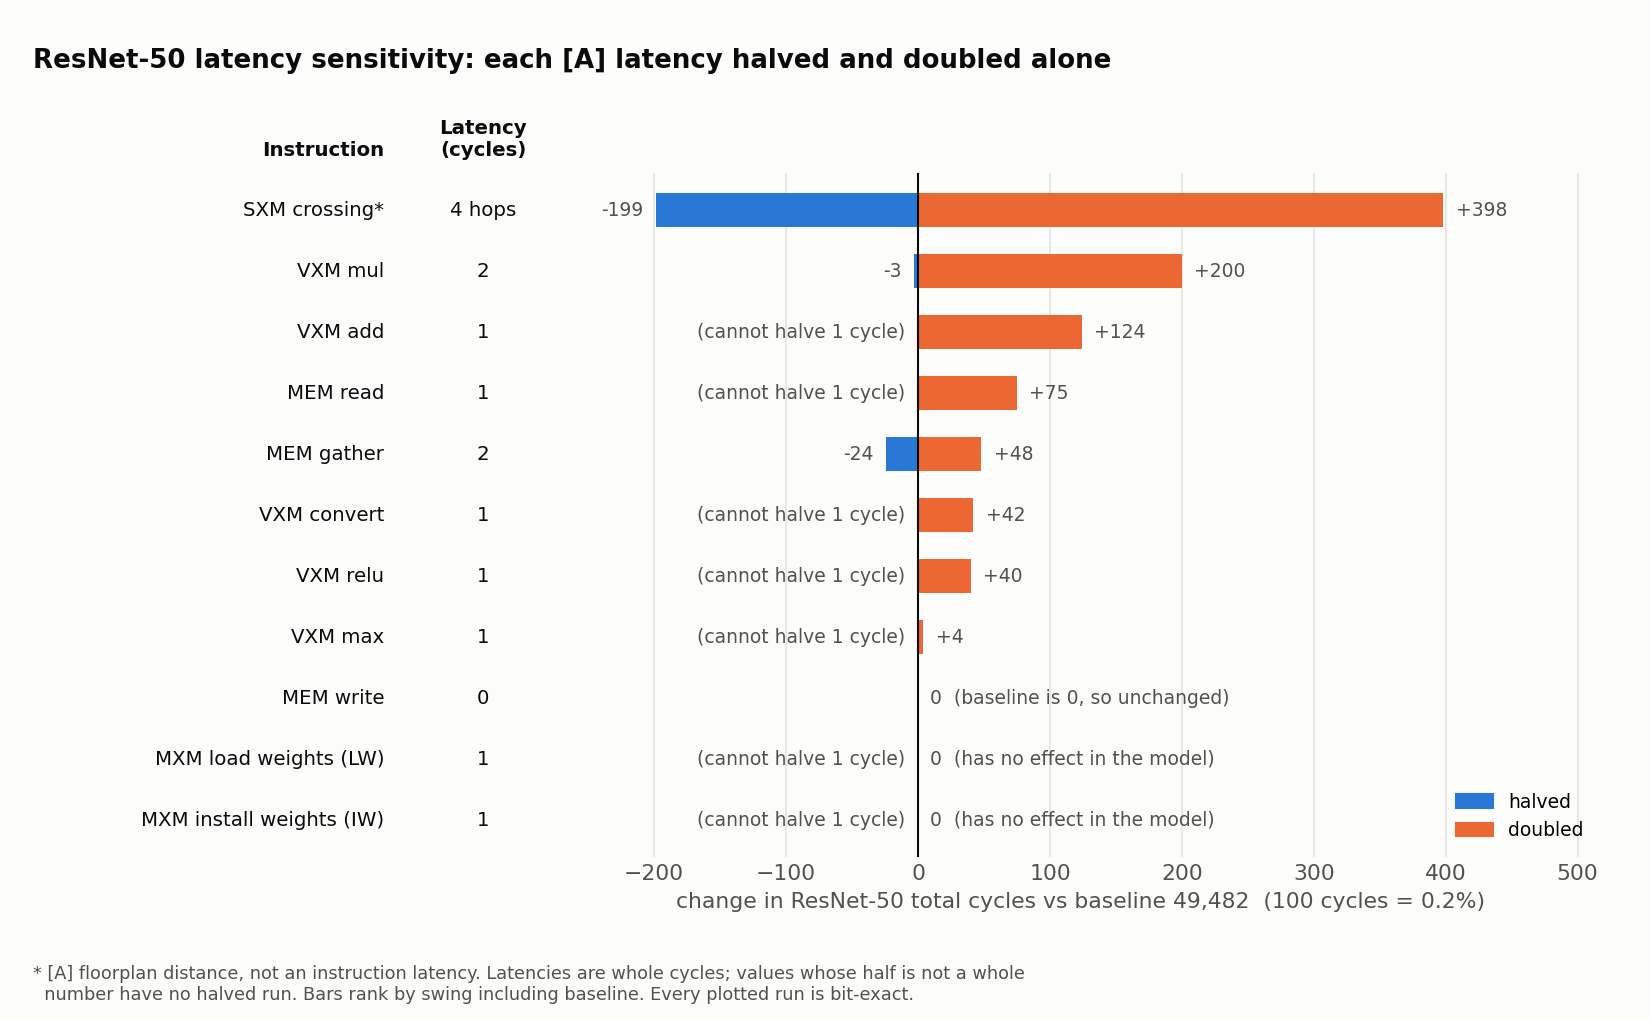
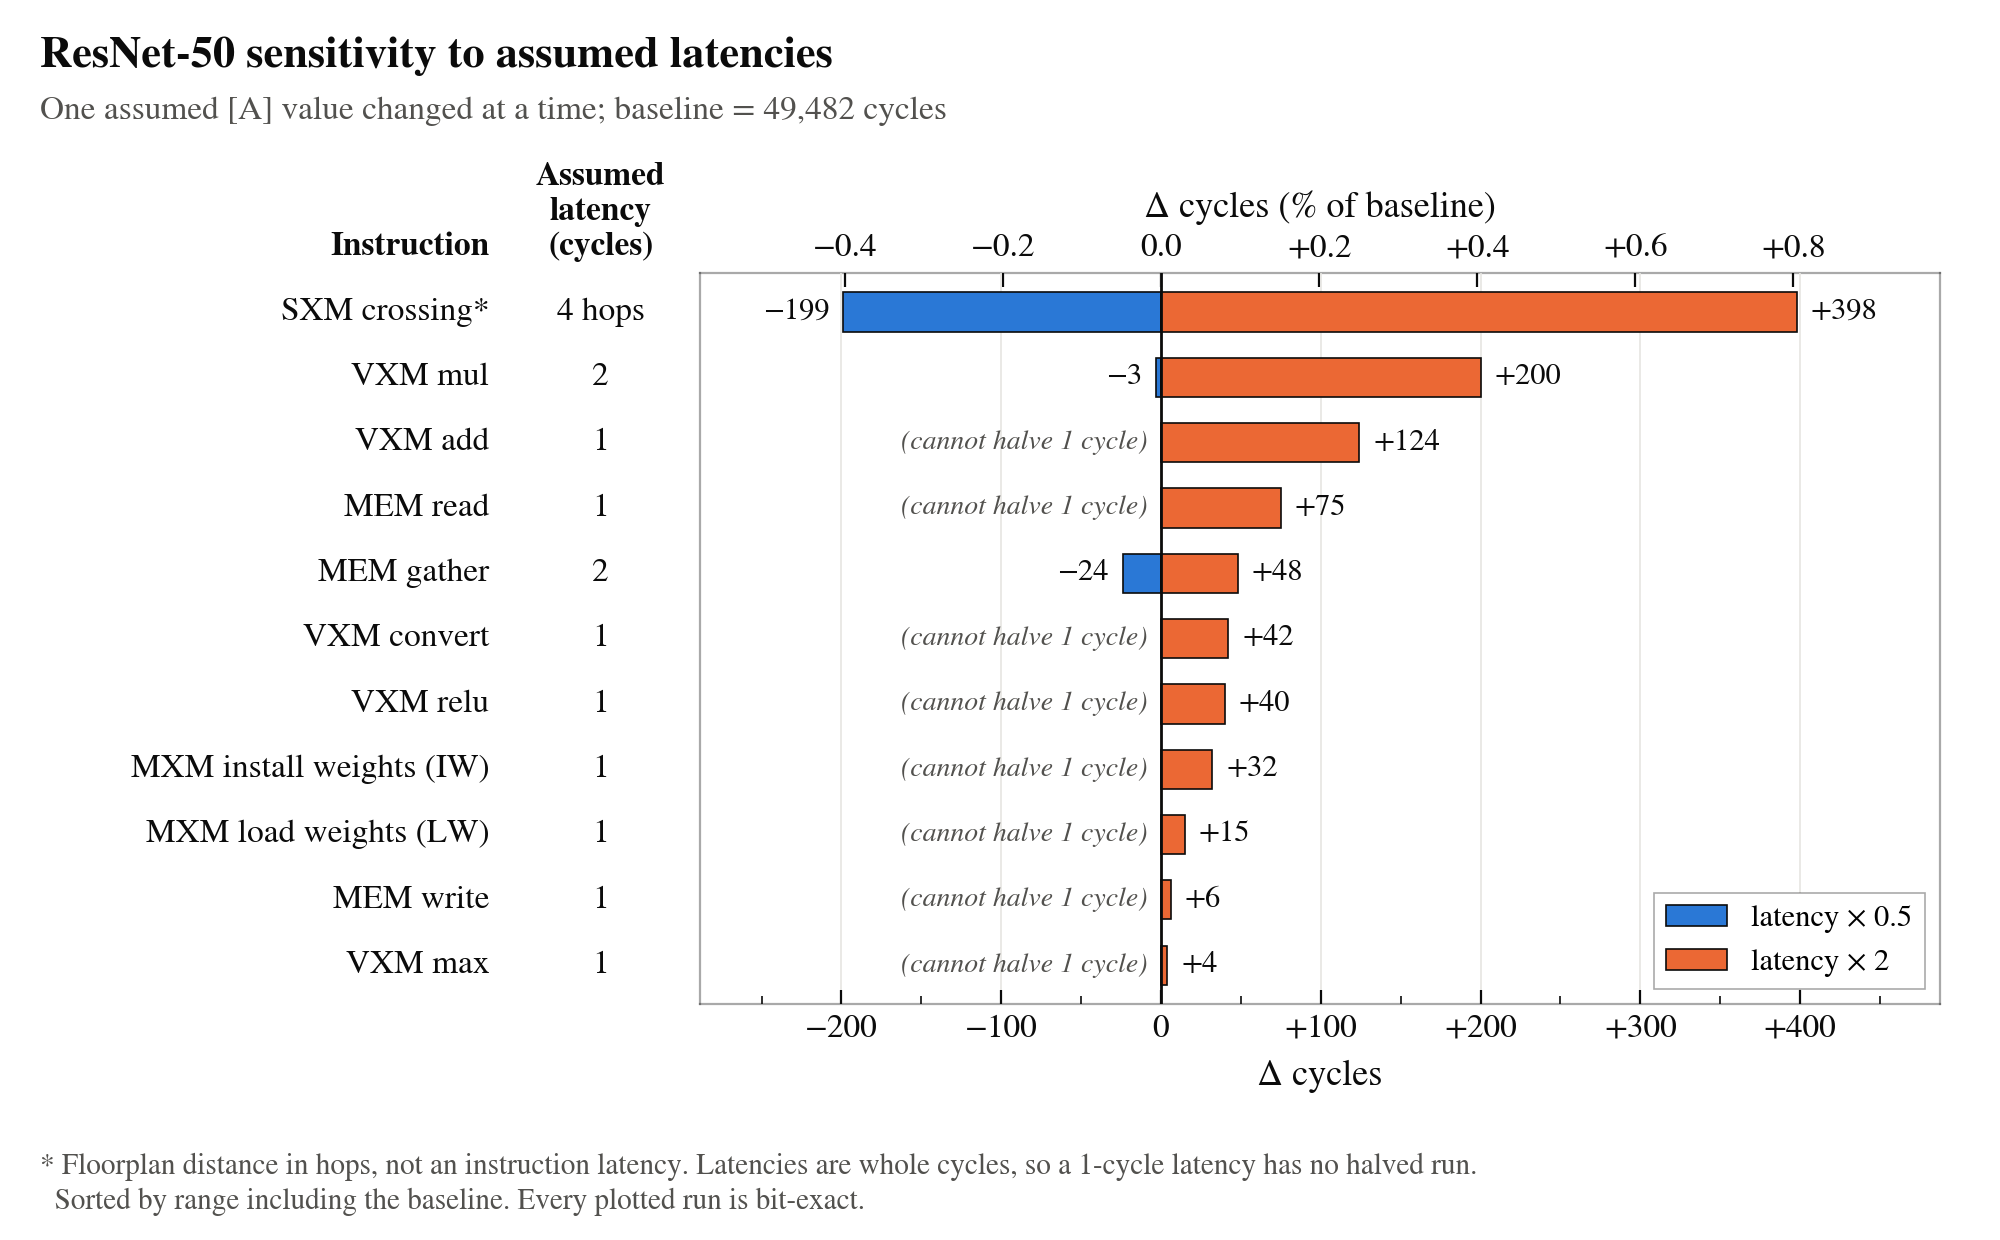
Sensitivity graph updated

diff --git a/scripts/plots.py b/scripts/plots.py
@@ -293,62 +293,84 @@ def sensitivity_figure(results, out_png):
     import matplotlib
     matplotlib.use("Agg")
     import matplotlib.pyplot as plt
+    from matplotlib.colors import to_rgb
     from matplotlib.patches import Patch
+    from matplotlib.ticker import FuncFormatter, MultipleLocator
     from matplotlib.transforms import blended_transform_factory
 
     rows = read_csv(os.path.join(results, "latency_sensitivity.csv"))
     base = int(rows[0]["baseline_cycles"])
     HALF, DOUBLE = SERIES[0], SERIES[1]
+    FRAME_ALPHA = 0.35      # plot frame and legend box
 
-    _style(plt)
-    fig, ax = plt.subplots(figsize=(11, 6.8))
-    fig.patch.set_facecolor(SURFACE)
-    ax.set_facecolor(SURFACE)
-    ax.set_axisbelow(True)
-    for s in ax.spines.values():
-        s.set_visible(False)
-    ax.grid(True, axis="x", color=GRID, lw=0.8)
-    left = blended_transform_factory(ax.transAxes, ax.transData)
-    lo = hi = 0
-    for i, r in enumerate(rows):
-        assumed = int(r["assumed"])
-        dh = int(r["half_cycles"]) - base if r["half_cycles"] else None
-        dd = int(r["double_cycles"]) - base
-        for d, col in ((dh, HALF), (dd, DOUBLE)):
-            if d:
-                ax.barh(i, d, height=0.55, color=col, zorder=2)
-                ax.annotate(f"{d:+d}", (d, i), xytext=(6 if d > 0 else -6, 0), textcoords="offset points",
-                            ha="left" if d > 0 else "right", va="center", fontsize=9, color=INK2)
-                lo, hi = min(lo, d), max(hi, d)
-        if dh is None:
-            ax.annotate(f"(cannot halve {assumed} cycle)", (0, i), xytext=(-6, 0), textcoords="offset points",
-                        ha="right", va="center", fontsize=9, color=INK2)
-        if dd == 0 and not dh:
-            ax.annotate("0  (baseline is 0, so unchanged)" if assumed == 0 else "0  (has no effect in the model)",
-                        (0, i), xytext=(6, 0), textcoords="offset points", va="center", fontsize=9, color=INK2)
-        ax.text(-0.17, i, r["instruction"] + ("*" if r["unit"] == "hops" else ""), transform=left, ha="right",
-                va="center", fontsize=9.5, color=INK)
-        ax.text(-0.075, i, f"{assumed}" + (" hops" if r["unit"] == "hops" else ""), transform=left, ha="center",
-                va="center", fontsize=9.5, color=INK)
-    for x, ha, t in ((-0.17, "right", "Instruction"), (-0.075, "center", "Latency\n(cycles)")):
-        ax.text(x, 1.02, t, transform=ax.transAxes, ha=ha, va="bottom", fontsize=9.5, fontweight="bold", color=INK)
-    ax.axvline(0, color=INK, lw=1, zorder=3)
-    ax.set_yticks([])
-    ax.set_ylim(len(rows) - 0.4, -0.6)
-    ax.set_xlim(lo - 0.12 * (hi - lo), hi + 0.2 * (hi - lo))
-    ax.tick_params(length=0)
-    ax.set_xlabel(f"change in ResNet-50 total cycles vs baseline {base:,}  (100 cycles = {100 * 100 / base:.1f}%)")
-    ax.legend(handles=[Patch(color=HALF, label="halved"), Patch(color=DOUBLE, label="doubled")],
-              loc="lower right", frameon=False, fontsize=9)
-    fig.subplots_adjust(left=0.34, right=0.97, top=0.83, bottom=0.16)
-    fig.text(0.02, 0.94, "ResNet-50 latency sensitivity: each [A] latency halved and doubled alone", ha="left",
-             va="center", fontsize=12.5, fontweight="bold", color=INK)
-    fig.text(0.02, 0.02, "* [A] floorplan distance, not an instruction latency. Latencies are whole cycles; values whose "
-             "half is not a whole\n  number have no halved run. Bars rank by swing including baseline. "
-             "Every plotted run is bit-exact.", fontsize=8.5, color=INK2)
-    os.makedirs(os.path.dirname(out_png), exist_ok=True)
-    fig.savefig(out_png, dpi=150, facecolor=SURFACE)
-    plt.close(fig)
+    def signed(v, fmt="{:,.0f}"):
+        return ("+" if v > 0 else "−" if v < 0 else "") + fmt.format(abs(v))
+
+    style = {"font.family": "STIXGeneral", "mathtext.fontset": "stix", "font.size": 12, "axes.linewidth": 0.8,
+             "axes.edgecolor": INK, "axes.labelcolor": INK, "xtick.color": INK, "ytick.color": INK,
+             "xtick.direction": "in", "xtick.major.size": 5, "xtick.minor.size": 3, "hatch.linewidth": 0.6}
+    with plt.rc_context(style):
+        fig, ax = plt.subplots(figsize=(10, 6.2))
+        fig.patch.set_facecolor("white")
+        ax.set_axisbelow(True)
+        ax.grid(True, axis="x", color=GRID, lw=0.6)
+        left = blended_transform_factory(ax.transAxes, ax.transData)
+        lo = hi = 0
+        for i, r in enumerate(rows):
+            assumed = int(r["assumed"])
+            dh = int(r["half_cycles"]) - base if r["half_cycles"] else None
+            dd = int(r["double_cycles"]) - base
+            for d, col in ((dh, HALF), (dd, DOUBLE)):
+                if d:
+                    ax.barh(i, d, height=0.6, color=col, edgecolor=INK, lw=0.6, zorder=2)
+                    ax.annotate(signed(d), (d, i), xytext=(5 if d > 0 else -5, 0), textcoords="offset points",
+                                ha="left" if d > 0 else "right", va="center", fontsize=11, color=INK)
+                    lo, hi = min(lo, d), max(hi, d)
+            if dh is None:
+                ax.annotate(f"(cannot halve {assumed} cycle)", (0, i), xytext=(-5, 0), textcoords="offset points",
+                            ha="right", va="center", fontsize=10, style="italic", color=INK2)
+            if dd == 0 and not dh:
+                ax.annotate("0", (0, i), xytext=(5, 0), textcoords="offset points", va="center", fontsize=11, color=INK)
+            hops = r["unit"] == "hops"
+            ax.text(-0.17, i, r["instruction"] + ("*" if hops else ""), transform=left, ha="right", va="center",
+                    fontsize=12, color=INK)
+            ax.text(-0.08, i, f"{assumed}" + (" hops" if hops else ""), transform=left, ha="center", va="center",
+                    fontsize=12, color=INK)
+        for x, ha, t in ((-0.17, "right", "Instruction"), (-0.08, "center", "Assumed\nlatency\n(cycles)")):
+            ax.text(x, 1.015, t, transform=ax.transAxes, ha=ha, va="bottom", fontsize=12, fontweight="bold", color=INK)
+        ax.axvline(0, color=INK, lw=1, zorder=3)
+        ax.set_yticks([])
+        ax.set_ylim(len(rows) - 0.4, -0.6)
+        ax.set_xlim(lo - 0.15 * (hi - lo), hi + 0.15 * (hi - lo))
+        ax.xaxis.set_major_locator(MultipleLocator(100))
+        ax.xaxis.set_minor_locator(MultipleLocator(50))
+        ax.xaxis.set_major_formatter(FuncFormatter(lambda v, _: signed(v)))
+        ax.set_xlabel("Δ cycles", labelpad=6, fontsize=13)
+        top = ax.secondary_xaxis("top", functions=(lambda v: 100 * v / base, lambda v: v * base / 100))
+        top.xaxis.set_major_locator(MultipleLocator(0.2))
+        top.xaxis.set_major_formatter(FuncFormatter(lambda v, _: signed(round(v, 1) + 0.0, "{:.1f}")))
+        top.set_xlabel("Δ cycles (% of baseline)", labelpad=6, fontsize=13)
+        for sp in (*ax.spines.values(), *top.spines.values()):
+            sp.set_alpha(FRAME_ALPHA)
+        ax.spines["top"].set_visible(False)   # the percent axis draws this edge
+        leg = ax.legend(handles=[Patch(facecolor=HALF, edgecolor=INK, lw=0.6, label="latency × 0.5"),
+                           Patch(facecolor=DOUBLE, edgecolor=INK, lw=0.6, label="latency × 2")],
+                  loc="lower right", frameon=True, fancybox=False, fontsize=11)
+        leg.get_frame().set_linewidth(0.6)
+        leg.get_frame().set_alpha(None)
+        leg.get_frame().set_facecolor("white")
+        leg.get_frame().set_edgecolor((*to_rgb(INK), FRAME_ALPHA))
+        fig.subplots_adjust(left=0.35, right=0.97, top=0.78, bottom=0.19)
+        fig.text(0.02, 0.955, "ResNet-50 sensitivity to assumed latencies", ha="left", va="center", fontsize=16,
+                 fontweight="bold", color=INK)
+        fig.text(0.02, 0.91, f"One assumed [A] value changed at a time; baseline = {base:,} cycles", ha="left",
+                 va="center", fontsize=12, color=INK2)
+        fig.text(0.02, 0.025, "* Floorplan distance in hops, not an instruction latency. Latencies are whole cycles, so a "
+                 "1-cycle latency has no halved run.\n  Sorted by range including the baseline. "
+                 "Every plotted run is bit-exact.", fontsize=10.5, color=INK2, linespacing=1.3)
+        os.makedirs(os.path.dirname(out_png), exist_ok=True)
+        fig.savefig(out_png, dpi=200, facecolor="white")
+        plt.close(fig)
     return out_png
 
 

diff --git a/src/lpusim.cpp b/src/lpusim.cpp
@@ -546,6 +546,7 @@ void Simulator::execute(std::int64_t cycle, int q, const SimInstr& si, int r) {
             if (addr < 0 || addr >= kMemWords) { violation(cycle, q, "address out of range"); return; }
             bank_check(g, addr, false);
             act.bump(act.mem_read, cycle);
+            read_check(cycle, q, g, addr);
             emit(cycle + lat_.mem_read.d_func - 1, pos, in.dst.dir, in.dst.base, mem_[static_cast<std::size_t>(g)][static_cast<std::size_t>(addr)], out_tag);
             return;
         }
@@ -558,6 +559,7 @@ void Simulator::execute(std::int64_t cycle, int q, const SimInstr& si, int r) {
                                  ((*map)[static_cast<std::size_t>(t * 16 + 1)] << 8);
                 if (addr >= kMemWords) { violation(cycle, q, "gather address out of range"); return; }
                 if (addr / kBankWords != last_bank) { bank_check(g, addr, false); last_bank = addr / kBankWords; }
+                read_check(cycle, q, g, addr);
                 const Vector& w = mem_[static_cast<std::size_t>(g)][static_cast<std::size_t>(addr)];
                 std::copy(w.begin() + t * 16, w.begin() + t * 16 + 16, out.begin() + t * 16);
             }
@@ -571,7 +573,7 @@ void Simulator::execute(std::int64_t cycle, int q, const SimInstr& si, int r) {
             const Vector* v = operand(cycle, q, si, 0, 0, r);
             bank_check(g, addr, true);
             act.bump(act.mem_write, cycle);
-            writes_.push_back(PendingWrite{g, addr, *v});
+            writes_.push_back(PendingWrite{g, addr, *v, cycle + lat_.mem_write.d_func - 1});
             return;
         }
         violation(cycle, q, "opcode not legal on this MEM queue");
@@ -586,6 +588,8 @@ void Simulator::execute(std::int64_t cycle, int q, const SimInstr& si, int r) {
     const int role = q_mxm_role(q);
     if (in.opcode == Opcode::MxmLoadWeights && role == kMxmLW) {
         if (r >= kSuperlanes) { violation(cycle, q, "LW beyond 20 issues"); return; }
+        if (cycle < pl.w_ready) violation(cycle, q, "LW overwrites the buffer while an IW is in progress");
+        pl.buf_ready = cycle + lat_.mxm_lw.d_func;
         for (int s = 0; s < 16; ++s) {
             const Vector* v = operand(cycle, q, si, 0, s, r);
             const int f = 16 * r + s;
@@ -596,10 +600,13 @@ void Simulator::execute(std::int64_t cycle, int q, const SimInstr& si, int r) {
         return;
     }
     if (in.opcode == Opcode::MxmInstallWeights && role == kMxmIW) {
+        if (cycle < pl.buf_ready) violation(cycle, q, "IW before its LW has landed");
         pl.w = pl.buf;
+        pl.w_ready = cycle + lat_.mxm_iw.d_func;
         return;
     }
     if (in.opcode == Opcode::MxmActivate && role == kMxmABC) {
+        if (cycle < pl.w_ready) violation(cycle, q, "ABC before its IW has finished");
         const Vector* xv = operand(cycle, q, si, 0, 0, r);
         std::int8_t x[kLanes];
         for (int i = 0; i < kLanes; ++i) x[i] = static_cast<std::int8_t>((*xv)[static_cast<std::size_t>(i)]);
@@ -621,6 +628,29 @@ void Simulator::execute(std::int64_t cycle, int q, const SimInstr& si, int r) {
         return;
     }
     violation(cycle, q, "MXM opcode not modeled (ACC)");
+}
+
+void Simulator::land_writes(std::int64_t before) {
+    std::size_t keep = 0;
+    for (std::size_t i = 0; i < writes_.size(); ++i) {
+        PendingWrite& w = writes_[i];
+        if (w.land < before) {
+            mem_[static_cast<std::size_t>(w.g)][static_cast<std::size_t>(w.addr)] = w.v;
+        } else {
+            if (keep != i) writes_[keep] = w;
+            ++keep;
+        }
+    }
+    writes_.resize(keep);
+}
+
+// A Read or Gather of a word whose Write (from an earlier cycle) has not landed would see old data.
+void Simulator::read_check(std::int64_t cycle, int q, int g, int addr) {
+    for (const PendingWrite& w : writes_)
+        if (w.g == g && w.addr == addr && w.land - lat_.mem_write.d_func + 1 < cycle) {
+            violation(cycle, q, "read before its write has landed");
+            return;
+        }
 }
 
 void Simulator::run(const Program& prog) {
@@ -693,6 +723,7 @@ void Simulator::run(const Program& prog) {
             }
         }
         T = next;
+        land_writes(T);
         while (!heap.empty() && heap.top().first == T) {
             const int q = heap.top().second;
             heap.pop();
@@ -715,10 +746,10 @@ void Simulator::run(const Program& prog) {
         }
         pending_emits_ -= bucket.size();
         bucket.clear();
-        for (const PendingWrite& w : writes_) mem_[static_cast<std::size_t>(w.g)][static_cast<std::size_t>(w.addr)] = w.v;
-        writes_.clear();
         last_cycle = T;
     }
+    for (const PendingWrite& w : writes_) last_cycle = std::max(last_cycle, w.land);
+    land_writes(INT64_MAX);
     check_text(prog);
 }
 

diff --git a/src/lpusim.h b/src/lpusim.h
@@ -187,7 +187,8 @@ struct Lat {
 
 struct LatencyTable {
     Lat mem_read{1, 0, 1, "A", "instruction-timing-table.csv MEM Read"};
-    Lat mem_write{0, 0, 1, "A", "instruction-timing-table.csv MEM Write (d_skew 0)"};
+    // a Write puts nothing on a stream: d_func is issue -> first cycle a Read sees the word
+    Lat mem_write{1, 0, 1, "A", "default: word readable the next cycle"};
     Lat mem_gather{2, 0, 1, "A", "instruction-timing-table.csv MEM Gather"};
     Lat vxm_add{1, 0, 1, "A", "default: 1-cycle ALU"};
     Lat vxm_mul{2, 0, 1, "A", "default: 2-cycle multiplier"};
@@ -327,10 +328,13 @@ private:
         int g;
         int addr;
         Vector v;
+        std::int64_t land;   // end of the cycle the word reaches the array (issue + d_func - 1)
     };
     struct Plane {
         std::vector<std::int8_t> w = std::vector<std::int8_t>(kLanes * kLanes, 0);    // [f][i]
         std::vector<std::int8_t> buf = std::vector<std::int8_t>(kLanes * kLanes, 0);
+        std::int64_t buf_ready = 0;   // first cycle an IW may read the LW buffer (last LW + its d_func)
+        std::int64_t w_ready = 0;     // first cycle an ABC may use the weights (IW + its d_func)
     };
 
     void violation(std::int64_t cycle, int q, const std::string& what);
@@ -338,6 +342,8 @@ private:
     const Vector* operand(std::int64_t cycle, int q, const SimInstr& si, int k, int sub, int r);
     void emit(std::int64_t cycle, int pos, Direction dir, int stream, const Vector& v, Tag tag);
     void execute(std::int64_t cycle, int q, const SimInstr& si, int r);
+    void land_writes(std::int64_t before);   // apply writes that land in a cycle < before
+    void read_check(std::int64_t cycle, int q, int g, int addr);
     void exec_vxm(std::int64_t cycle, int q, const SimInstr& si, int r);
 
     const Floorplan& fp_;

diff --git a/src/compiler.cpp b/src/compiler.cpp
@@ -782,12 +782,12 @@ void Compiler::lower_conv(int li) {
             o.kind = 'L';
             o.layer = li;
             o.label = L.name + " LW";
-            o.min_issue = planes_[static_cast<std::size_t>(pl)].last_iw + 1;
+            o.min_issue = planes_[static_cast<std::size_t>(pl)].w_ready;   // the buffer is free once the last IW is done
             const int lid = lw.add_op(o);
             lw.consume(lid, 0, e16, 0, 16);
             sch_.place(lw);
             note(lw, li);
-            lw_end[k] = lw.ops[static_cast<std::size_t>(lid)].start + kSuperlanes;
+            lw_end[k] = lw.ops[static_cast<std::size_t>(lid)].start + kSuperlanes - 1 + sch_.lat().mxm_lw.d_func;
             planes_[static_cast<std::size_t>(pl)].tile = tile;
             need_iw[k] = 1;
         }
@@ -895,7 +895,7 @@ void Compiler::lower_conv(int li) {
                 iw.label = L.name + " IW";
                 iw.min_issue = std::max(lw_end[k], planes_[static_cast<std::size_t>(pl)].abc_end);
                 iw_op[k] = p.add_op(iw);
-                p.links.push_back({abc_op[k], iw_op[k], -1});
+                p.links.push_back({abc_op[k], iw_op[k], -sch_.lat().mxm_iw.d_func});
             }
         }
         for (auto& [key, ks] : out_slots) {
@@ -972,7 +972,7 @@ void Compiler::lower_conv(int li) {
             PlaneState& ps = planes_[static_cast<std::size_t>(planes[k])];
             const POp& a = p.ops[static_cast<std::size_t>(abc_op[k])];
             ps.abc_end = a.start + a.n;
-            if (iw_op[k] >= 0) ps.last_iw = p.ops[static_cast<std::size_t>(iw_op[k])].start;
+            if (iw_op[k] >= 0) ps.w_ready = p.ops[static_cast<std::size_t>(iw_op[k])].start + sch_.lat().mxm_iw.d_func;
         }
     }
     for (auto& [k, pb] : pbuf)

diff --git a/src/sched.cpp b/src/sched.cpp
@@ -231,7 +231,7 @@ void Scheduler::commit_mem(const Pipeline& p, std::int64_t S) {
                 if (a % sim::kBankWords == 0) continue;
                 const std::size_t w = idx(o.mem_g, a);
                 if (o.mk == MemKind::ReadSeq) last_read_[w] = std::max(last_read_[w], t);
-                else ready_[w] = std::max(ready_[w], t + 1);
+                else ready_[w] = std::max(ready_[w], t + dfunc(o));
             }
         }
     }
@@ -552,7 +552,8 @@ std::int64_t Scheduler::place(Pipeline& p, bool commit) {
             }
             ev_ops.push_back(std::move(ev));
         }
-        makespan_ = std::max(makespan_, o.start + o.n + dfunc(o));
+        // a Write's d_func counts from issue to readable, so its last word is done at start + n - 1 + d_func
+        makespan_ = std::max(makespan_, o.start + o.n + dfunc(o) - (o.mk == MemKind::WriteSeq ? 1 : 0));
     }
     commit_mem(p, S);
     if (record_events) ev_pipes.push_back(EventPipe{p.name, p.layer, S});

diff --git a/src/compiler.h b/src/compiler.h
@@ -153,7 +153,7 @@ private:
         int consumers_left = 0;
         bool host = false;
     };
-    struct PlaneState { std::int64_t last_iw = -1, abc_end = 0; long tile = -1; };
+    struct PlaneState { std::int64_t w_ready = 0, abc_end = 0; long tile = -1; };   // w_ready: last IW + its d_func
 
     // planning
     Layout layout_for(int t) const;

diff --git a/README.md b/README.md
@@ -140,7 +140,7 @@ The other `src/` files are listed without the `src/` prefix above.
     runs; IW (1 cycle) goes between them.
   * VXM: one IQ per ALU. SXM: 14 IQs per side, empty for ResNet-50 (no SXM op is modeled yet).
   * Every IQ other than MEM is single-issue [Ours].
-* Latencies: MEM Read 1, Write 0, Gather 2 [A]; VXM add 1, mul 2, convert 1, relu 1, max 1 [A];
+* Latencies: MEM Read 1, Write 1 (issue to readable), Gather 2 [A]; VXM add 1, mul 2, convert 1, relu 1, max 1 [A];
   MXM LW 1 per issue, IW 1, ABC 20 [I]; Sync preamble 35 cycles [P]; superlane stagger 19 [P].
 * Superlane stagger is analytic. Every op is lane-local except the MXM reduction, which ABC's
   d_func already covers, so the stagger adds 19 cycles to the end of the program.
